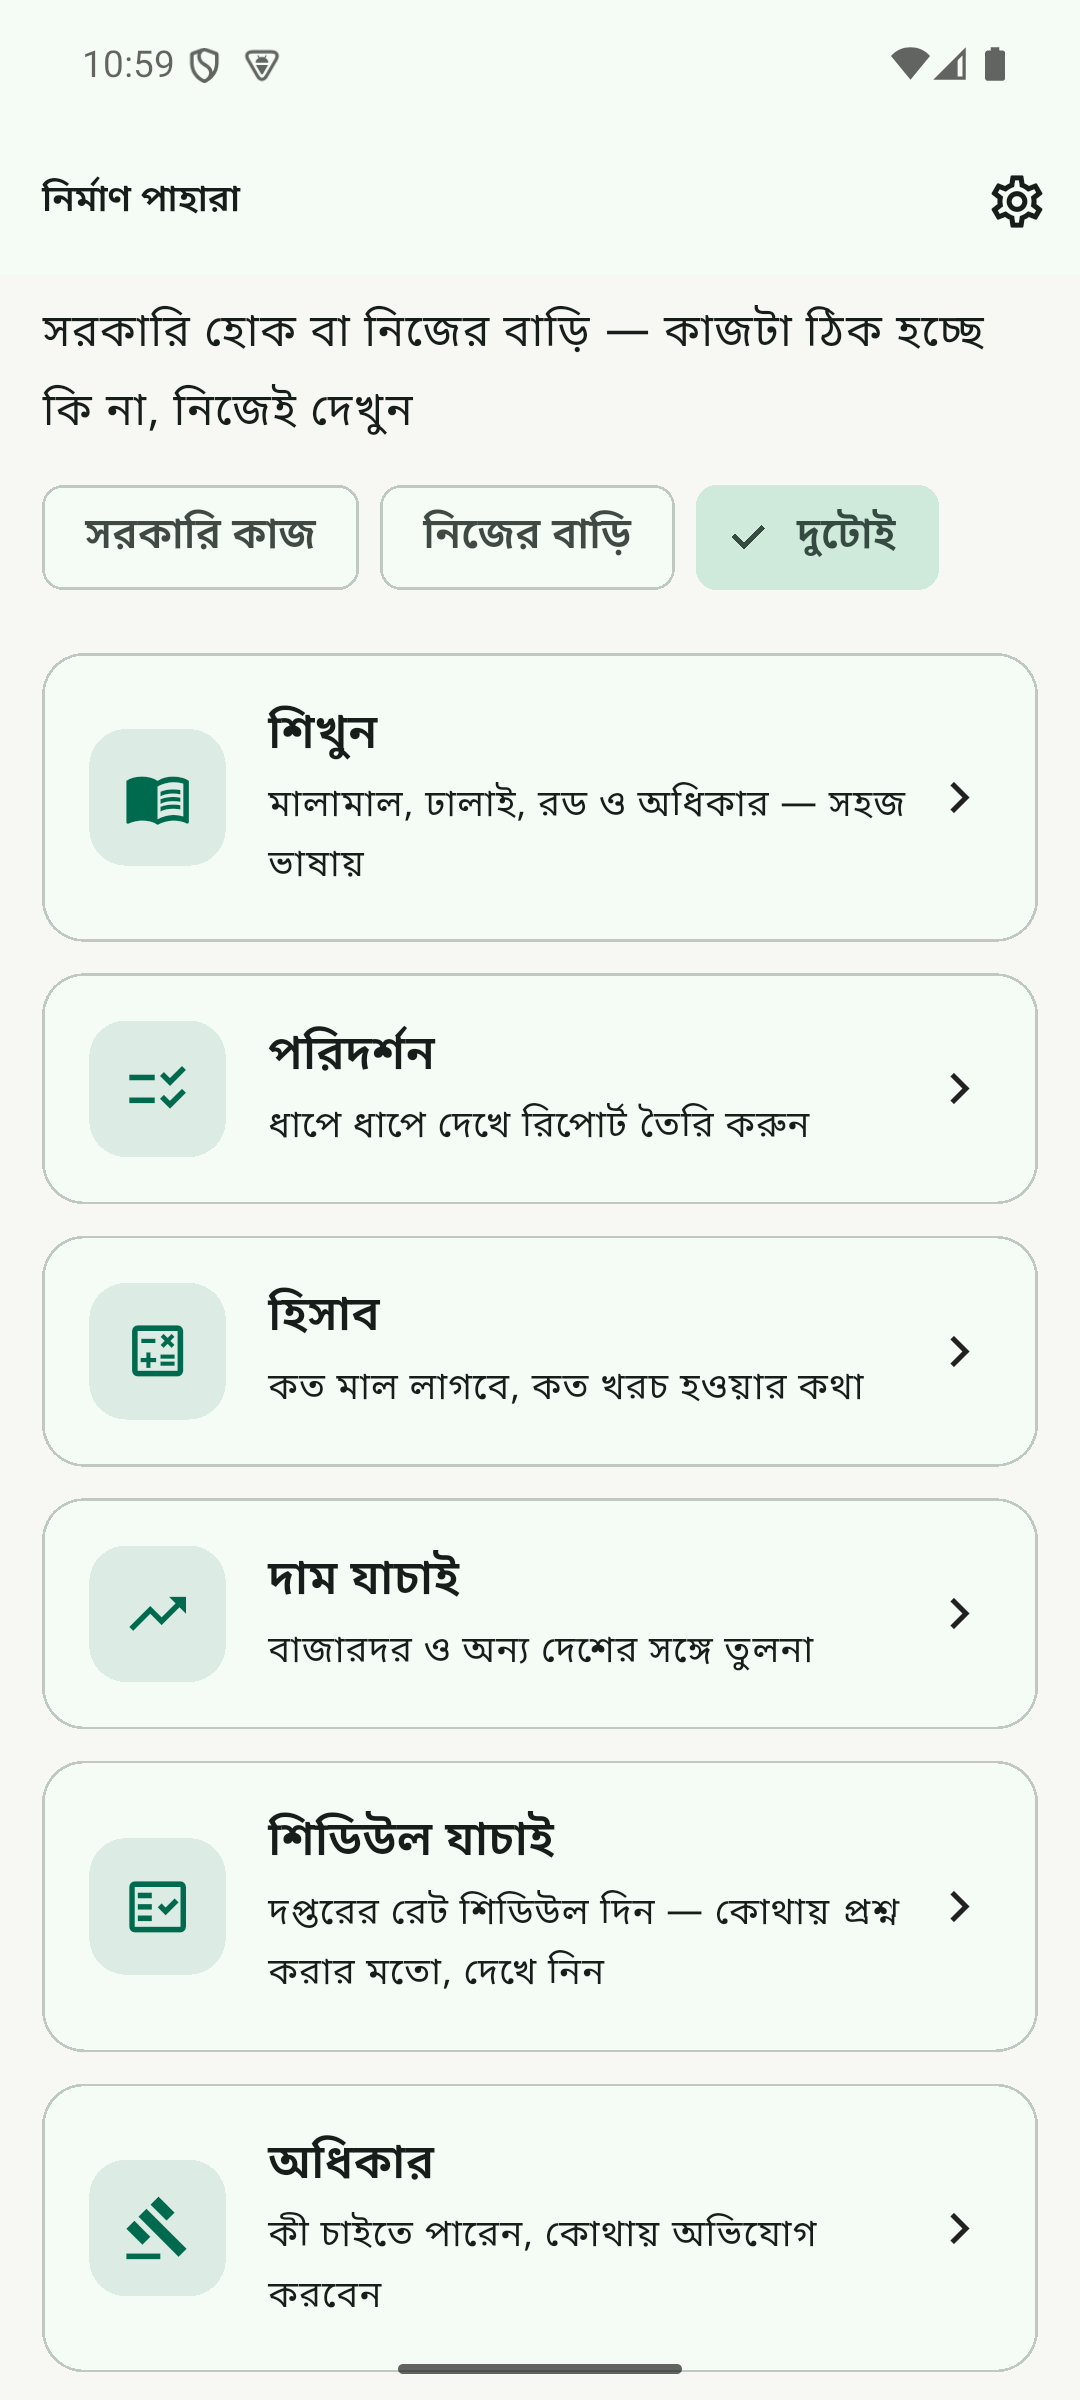
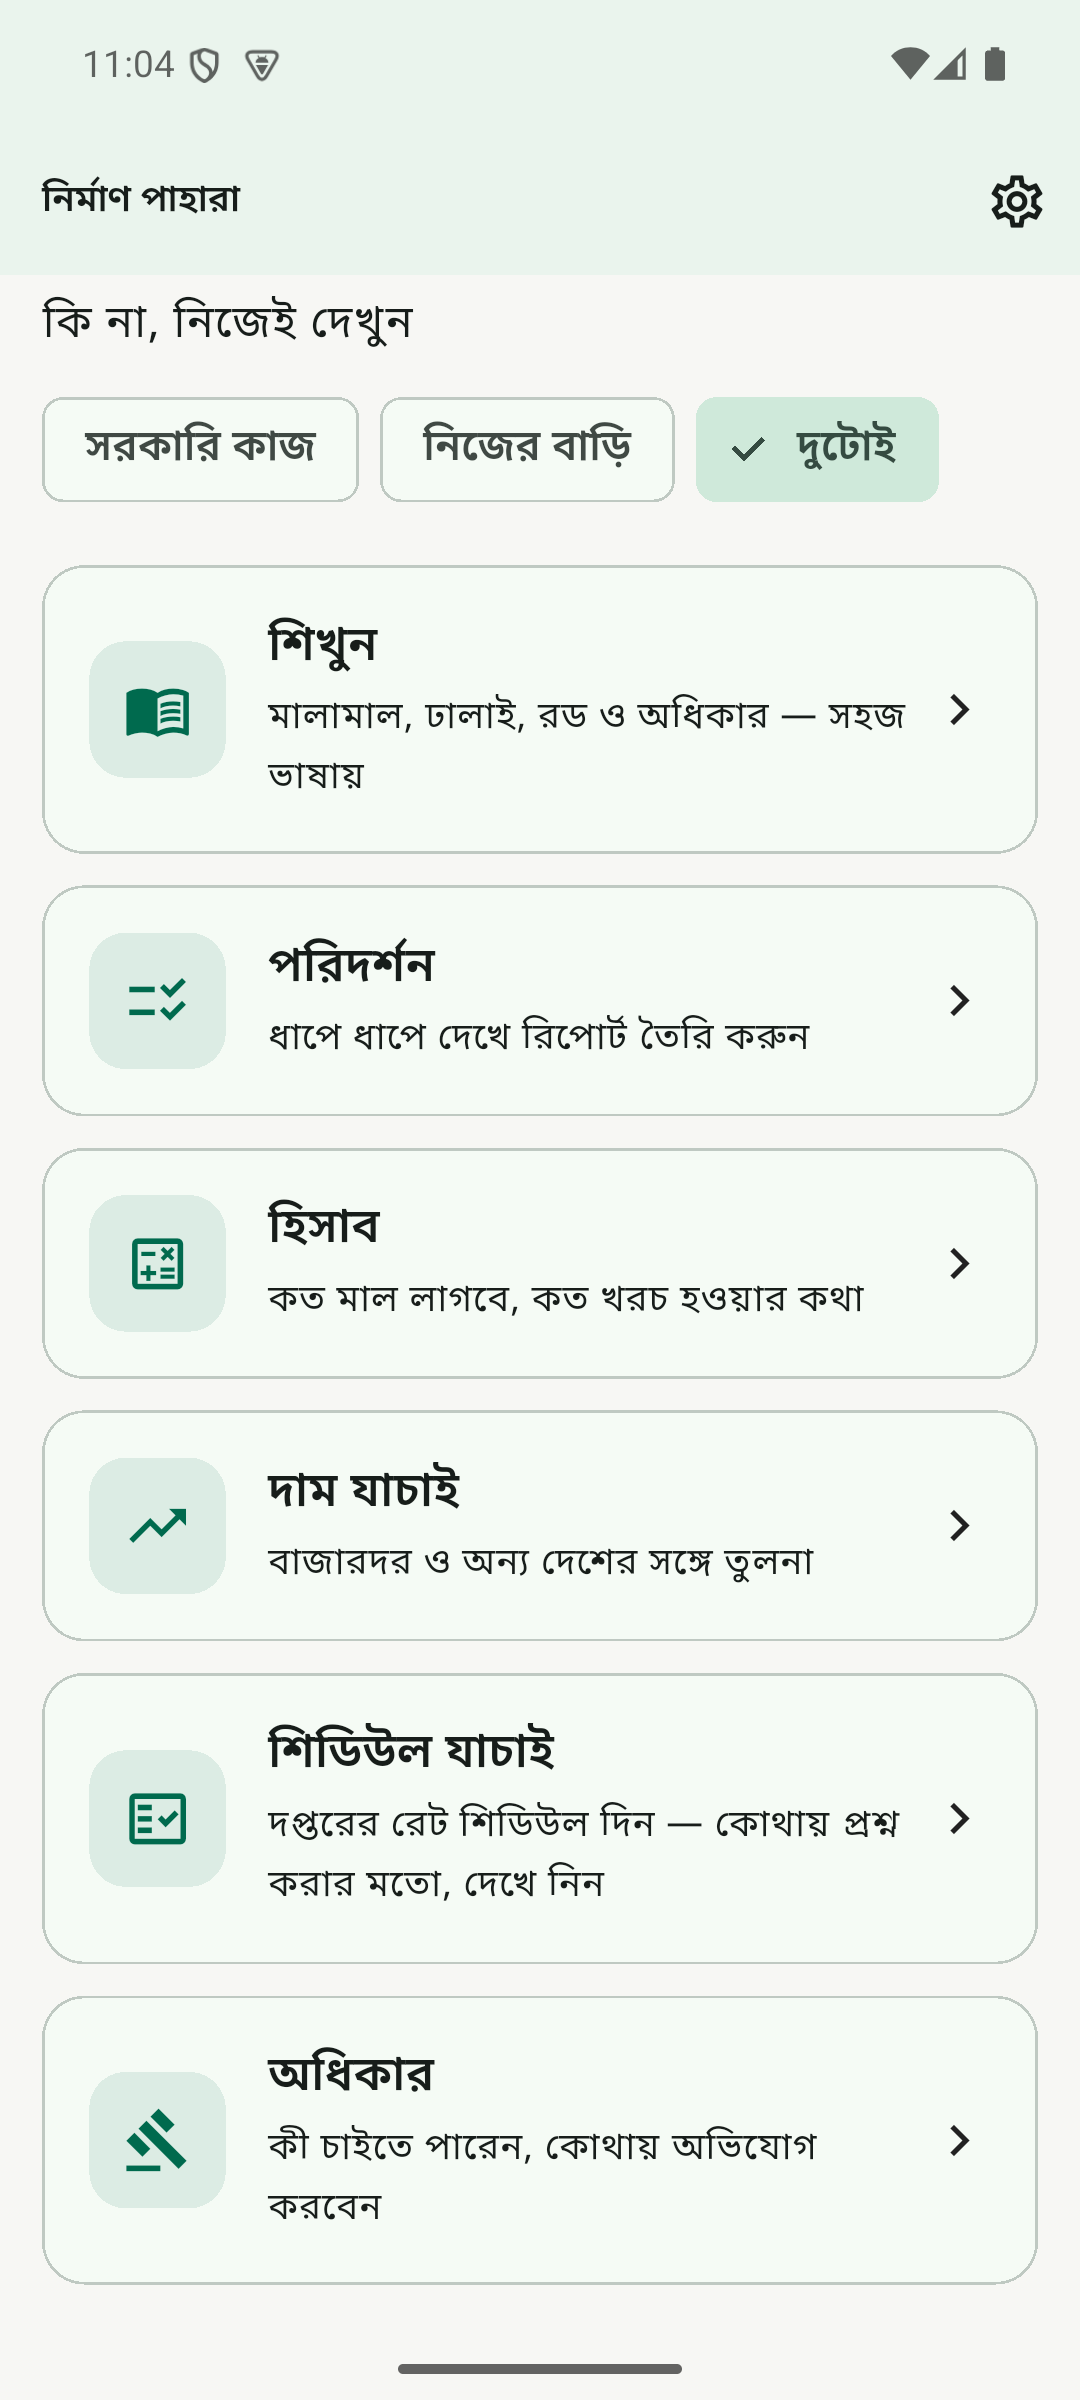
Match schedule searches on word boundaries
Searching the rate schedule for "roof" returned damp proof course, because
"proof" contains "roof". A plain substring search hands somebody standing at
a site the wrong item and makes the search look broken.

Descriptions now match at word starts, and every term in a query must appear so
that more words narrow rather than widen. Item codes still match on a plain
substring, because people type a partial number. Only the start of a word is
anchored, so "plaster" still finds "plastering".

diff --git a/lib/features/prices/logic/pwd_rate_table.dart b/lib/features/prices/logic/pwd_rate_table.dart
@@ -45,12 +45,45 @@ class PwdRateItem {
   double rateFor(int regionIndex) =>
       rates[regionIndex.clamp(0, rates.length - 1)];
 
+  /// Whether this item answers [query].
+  ///
+  /// The item code matches on a plain substring, because people type a partial
+  /// number like "07.1". The description matches on **word boundaries**: a bare
+  /// substring search returns "damp proof course" for "roof", which is the sort
+  /// of near-miss that wastes a person's time at a site and makes the search
+  /// look broken.
   bool matches(String query) {
     final q = query.trim().toLowerCase();
     if (q.isEmpty) return true;
-    return code.toLowerCase().contains(q) ||
-        description.toLowerCase().contains(q);
+    if (code.toLowerCase().contains(q)) return true;
+
+    final haystack = description.toLowerCase();
+    final terms = q.split(RegExp(r'\s+')).where((t) => t.isNotEmpty);
+    if (terms.isEmpty) return false;
+    // Every term must appear, so "roof slab" narrows rather than widens.
+    return terms.every((term) => _containsWord(haystack, term));
   }
+
+  /// True when [term] appears in [haystack] at the start of a word.
+  ///
+  /// Only the start is anchored. Anchoring the end too would stop "plaster"
+  /// finding "plastering", and the schedule's wording varies far too much for
+  /// that to be safe.
+  static bool _containsWord(String haystack, String term) {
+    var from = 0;
+    while (from <= haystack.length - term.length) {
+      final at = haystack.indexOf(term, from);
+      if (at < 0) return false;
+      final startsWord = at == 0 || !_isWordChar(haystack.codeUnitAt(at - 1));
+      if (startsWord) return true;
+      from = at + 1;
+    }
+    return false;
+  }
+
+  static bool _isWordChar(int c) =>
+      (c >= 0x61 && c <= 0x7A) || (c >= 0x41 && c <= 0x5A) ||
+      (c >= 0x30 && c <= 0x39);
 
   factory PwdRateItem.fromJson(Map<String, dynamic> j) => PwdRateItem(
         code: j['code'] as String,

diff --git a/test/pwd_rate_table_test.dart b/test/pwd_rate_table_test.dart
@@ -58,6 +58,38 @@ void main() {
     expect(t.search('zzzznothing'), isEmpty);
   });
 
+  test('a search matches whole words, not any run of letters', () async {
+    final t = await repo.pwdRates();
+    // "proof" contains "roof". A plain substring search hands somebody looking
+    // for a roof slab a damp proof course instead.
+    final roof = t.search('roof');
+    expect(roof, isNotEmpty);
+    for (final item in roof) {
+      expect(item.description.toLowerCase(), isNot(contains('damp proof')),
+          reason: '${item.code} came back for "roof"');
+    }
+    expect(t.search('damp proof'), isNotEmpty);
+  });
+
+  test('every term has to appear, so more words narrow the result', () async {
+    final t = await repo.pwdRates();
+    final broad = t.search('slab', limit: 500);
+    final narrow = t.search('roof slab', limit: 500);
+    expect(narrow.length, lessThanOrEqualTo(broad.length));
+    expect(narrow, isNotEmpty);
+  });
+
+  test('a partial item number still matches', () async {
+    final t = await repo.pwdRates();
+    expect(t.search('07.1').map((i) => i.code), contains('07.1.3'));
+  });
+
+  test('a word prefix still matches, so plaster finds plastering', () async {
+    final t = await repo.pwdRates();
+    // Only the start of the word is anchored; endings vary too much.
+    expect(t.search('plaster'), isNotEmpty);
+  });
+
   test('the markups built into every rate are carried', () async {
     final t = await repo.pwdRates();
     expect(t.profitPercent, 10.0);

diff --git a/lib/features/prices/ui/boq_tab.dart b/lib/features/prices/ui/boq_tab.dart
@@ -105,6 +105,7 @@ class _BoqTabState extends State<BoqTab> {
             helperText: bn
                 ? 'আইটেম নম্বর বা কাজের বর্ণনা দিয়ে খুঁজুন — যেমন 07.1.3'
                 : 'Search by item number or description — for example 07.1.3',
+            helperMaxLines: 2,
           ),
         ),
         const SizedBox(height: 12),

diff --git a/README.md b/README.md
@@ -97,7 +97,7 @@ not ship to Play until that number is zero for the structural modules.
 
 ## Testing
 
-207 tests: the calculator engine against hand-computed values, the content packs
+211 tests: the calculator engine against hand-computed values, the content packs
 against their own schema and translation completeness, report generation for
 phrasing that never accuses, and end-to-end widget flows in both languages.
 
